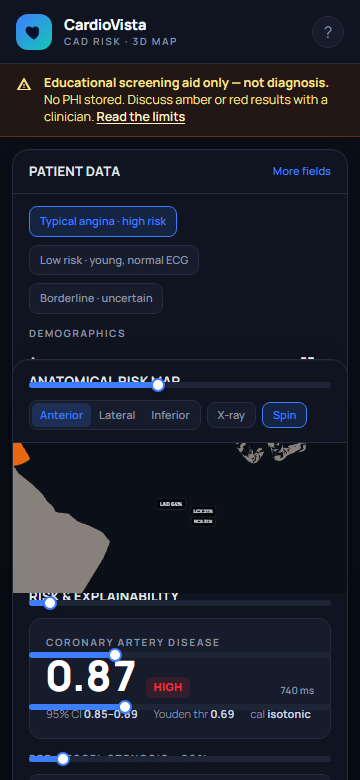
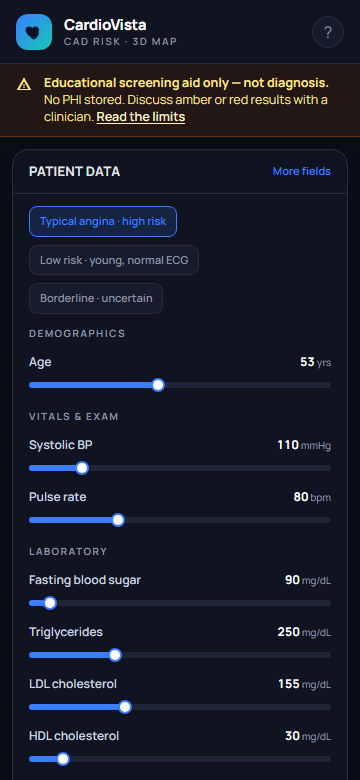
Fix 3D viewer framing + mobile stacking + marker separation
- Auto-centre/scale the BodyParts3D mesh (90-unit span) to 75% viewport fill
- computeVertexNormals (mesh ships POSITION-only; lighting was broken/black)
- Numbered 1/2/3 risk markers with per-vessel screen offsets (no overlap)
- Single OrbitControls; orientation presets animate then release to user
- Mobile: flex-col with shrink-0 panels (no more overlap), 460px viewer
- Docs: fill measured Sens@J values

diff --git a/web/src/components/HeartScene.tsx b/web/src/components/HeartScene.tsx
@@ -8,8 +8,10 @@ import type { HeadName, Probs } from "../lib/types";
 import { Fallback2D } from "./Fallback2D";
 
 const GLB_URL = "/heart_bp3d.glb";
-const MODEL_SIZE = 3.1; // normalised largest dimension, world units
-const CAMERA_DIST = 4.4;
+// Fill ~75% of the viewport height:
+//   visible = 2 * CAMERA_DIST * tan(fov/2) ; MODEL_SIZE = 0.75 * visible
+const CAMERA_DIST = 4.1;
+const MODEL_SIZE = 2.25;
 
 type VesselHead = Exclude<HeadName, "cad">;
 
@@ -50,7 +52,11 @@ function computeLayout(nodes: Record<string, THREE.Mesh>) {
     const g = nodes[v.meshName]?.geometry;
     if (!g) continue;
     g.computeBoundingBox();
-    labelDots[v.head] = (g.boundingBox as THREE.Box3).getCenter(new THREE.Vector3());
+    const bb = g.boundingBox as THREE.Box3;
+    // anchor each marker at a distinct anatomical end so neighbours separate
+    if (v.head === "lad") labelDots[v.head] = new THREE.Vector3((bb.min.x + bb.max.x) / 2, bb.max.y, (bb.min.z + bb.max.z) / 2);
+    else if (v.head === "lcx") labelDots[v.head] = new THREE.Vector3(bb.max.x, (bb.min.y + bb.max.y) / 2, (bb.min.z + bb.max.z) / 2);
+    else labelDots[v.head] = bb.getCenter(new THREE.Vector3());
   }
   return { scale, position, labelDots };
 }
@@ -125,10 +131,13 @@ function Model({ probs, selected, isolate, xray, autoRotate, orientation, onSele
               onClick={() => onSelectVessel(v.head)}
               title={`${v.full}${p !== null ? ` — ${(p * 100).toFixed(0)}%` : ""}`}
               aria-label={`Select ${v.full}`}
+              style={{
+                borderColor: selected === v.head ? "#3D7DFF" : c,
+                transform: `translate(${v.screenOffset[0]}px, ${v.screenOffset[1]}px)`,
+              }}
               className={`grid h-6 w-6 place-items-center rounded-full border-2 text-[10px] font-extrabold shadow-lg backdrop-blur transition-transform hover:scale-125 ${
-                selected === v.head ? "border-primary bg-primary/50 text-white" : "border-black/60 bg-black/70 text-white"
+                selected === v.head ? "bg-primary/50 text-white" : "bg-black/70 text-white"
               }`}
-              style={{ borderColor: selected === v.head ? "#3D7DFF" : c }}
             >
               {i + 1}
             </button>

diff --git a/web/src/lib/vesselConfig.ts b/web/src/lib/vesselConfig.ts
@@ -13,6 +13,8 @@ export interface VesselConfig {
   cameraPreset: { theta: number; phi: number };
   /** Html label anchor in model space (metres) */
   labelPos: [number, number, number];
+  /** constant screen-space nudge (px) so neighbouring markers never touch */
+  screenOffset: [number, number];
 }
 
 export const VESSEL_CONFIG: VesselConfig[] = [
@@ -23,6 +25,7 @@ export const VESSEL_CONFIG: VesselConfig[] = [
     full: "Left anterior descending",
     cameraPreset: { theta: 0, phi: 1.35 },
     labelPos: [0, 0, 0],
+    screenOffset: [-26, -6],
   },
   {
     head: "lcx",
@@ -31,6 +34,7 @@ export const VESSEL_CONFIG: VesselConfig[] = [
     full: "Left circumflex",
     cameraPreset: { theta: -1.15, phi: 1.45 },
     labelPos: [0, 0, 0],
+    screenOffset: [20, 10],
   },
   {
     head: "rca",
@@ -39,6 +43,7 @@ export const VESSEL_CONFIG: VesselConfig[] = [
     full: "Right coronary artery",
     cameraPreset: { theta: 1.25, phi: 1.5 },
     labelPos: [0, 0, 0],
+    screenOffset: [0, 0],
   },
 ];
 

diff --git a/web/src/components/Dashboard.tsx b/web/src/components/Dashboard.tsx
@@ -20,14 +20,14 @@ export function Dashboard() {
   }, [safetyAck, presets, applyPreset, predict]);
 
   return (
-    <div className="grid min-h-0 flex-1 gap-3 p-3 lg:grid-cols-[340px_minmax(0,1fr)_416px]">
-      <div className="min-h-0 lg:h-full">
+    <div className="flex flex-1 flex-col gap-3 overflow-y-auto p-3 lg:grid lg:h-full lg:grid-cols-[340px_minmax(0,1fr)_416px] lg:overflow-hidden">
+      <div className="shrink-0 lg:h-full lg:min-h-0 lg:shrink">
         <PatientPanel />
       </div>
-      <div className="min-h-0 lg:h-full">
+      <div className="min-h-[460px] shrink-0 lg:h-full lg:min-h-0 lg:shrink">
         <ViewerPanel />
       </div>
-      <div className="min-h-0 lg:h-full">
+      <div className="shrink-0 lg:h-full lg:min-h-0 lg:shrink">
         <RiskPanel />
       </div>
       {error ? (

diff --git a/web/src/components/PatientPanel.tsx b/web/src/components/PatientPanel.tsx
@@ -35,7 +35,7 @@ export function PatientPanel() {
   };
 
   return (
-    <section aria-label="Patient data" className="flex min-h-0 flex-col rounded-2xl border border-line bg-surface shadow-panel">
+    <section aria-label="Patient data" className="flex min-h-0 flex-col rounded-2xl border border-line bg-surface shadow-panel lg:h-full">
       <header className="flex items-center justify-between border-b border-line px-4 py-3">
         <h2 className="text-[13px] font-bold uppercase tracking-wide text-slate-200">Patient data</h2>
         <button

diff --git a/web/src/components/RiskPanel.tsx b/web/src/components/RiskPanel.tsx
@@ -15,7 +15,7 @@ export function RiskPanel() {
   return (
     <section
       aria-label="Risk and explainability"
-      className="flex min-h-0 flex-col gap-3 overflow-y-auto rounded-2xl border border-line bg-surface p-4 shadow-panel"
+      className="flex min-h-0 flex-col gap-3 rounded-2xl border border-line bg-surface p-4 shadow-panel lg:h-full lg:overflow-y-auto"
     >
       <div className="flex items-center justify-between">
         <h2 className="text-[13px] font-bold uppercase tracking-wide text-slate-200">

diff --git a/web/src/components/ViewerPanel.tsx b/web/src/components/ViewerPanel.tsx
@@ -18,7 +18,7 @@ export function ViewerPanel() {
   return (
     <section
       aria-label="Anatomical risk map"
-      className="flex min-h-0 flex-col rounded-2xl border border-line bg-surface shadow-panel"
+      className="flex min-h-0 flex-col rounded-2xl border border-line bg-surface shadow-panel lg:h-full"
     >
       <header className="flex flex-wrap items-center justify-between gap-2 border-b border-line px-4 py-3">
         <h2 className="text-[13px] font-bold uppercase tracking-wide text-slate-200">

diff --git a/docs/documentation.md b/docs/documentation.md
@@ -85,10 +85,10 @@ seeds = 25 fits/head, with **nested calibration** and 2000× bootstrap AUC CIs.
 
 | Head | Cal | ROC-AUC [95% CI] | PR-AUC | Brier | ECE | Youden | Sens@J | CV mean±SD |
 |---|---|---|---|---|---|---|---|---|
-| CAD | isotonic | 0.91 [0.87–0.95] | 0.96 | 0.098 | 0.032 | 0.69 | — | 0.90 ± 0.01 |
-| LAD | isotonic | 0.84 [0.80–0.89] | 0.89 | 0.153 | 0.062 | 0.59 | — | 0.84 ± 0.01 |
-| LCX | isotonic | 0.76 [0.71–0.82] | 0.70 | 0.195 | 0.077 | 0.42 | — | 0.74 ± 0.00 |
-| RCA | isotonic | 0.74 [0.68–0.79] | 0.68 | 0.198 | 0.028 | 0.38 | — | 0.73 ± 0.01 |
+| CAD | isotonic | 0.91 [0.87–0.95] | 0.960 | 0.098 | 0.032 | 0.69 | 88% | 0.904 ± 0.007 |
+| LAD | isotonic | 0.84 [0.80–0.89] | 0.879 | 0.153 | 0.062 | 0.59 | 82% | 0.835 ± 0.013 |
+| LCX | isotonic | 0.76 [0.71–0.82] | 0.635 | 0.195 | 0.077 | 0.42 | 71% | 0.741 ± 0.004 |
+| RCA | isotonic | 0.74 [0.68–0.79] | 0.607 | 0.198 | 0.028 | 0.38 | 70% | 0.727 ± 0.012 |
 
 *Exact values are read live from `artifacts/metrics.json` in the app.* Reliability, ROC, PR and
 confusion figures are committed under `artifacts/`.
